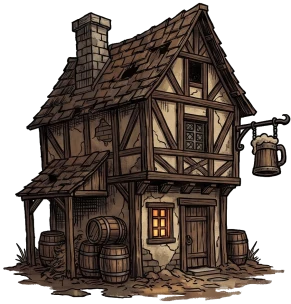
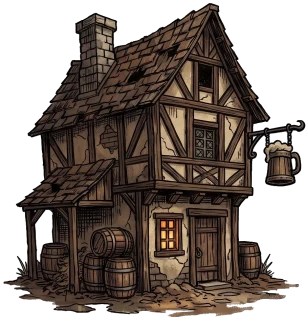
feat(hub): ranuras medidas contra el chrome real y agrandadas para teléfono; reproceso de edificios (T12)

diff --git a/client/src/game/hub/hubLayout.js b/client/src/game/hub/hubLayout.js
@@ -4,11 +4,12 @@
 export const HUB_W = 824;
 export const HUB_H = 1720;
 
-// Banda visible no tapada por el chrome en 412×860 (valores lógicos = css × 2). Se confirman midiendo el DOM.
+// Banda visible no tapada por el chrome en 412×860 (valores lógicos = css × 2), medida en el DOM real (T12): QuestRail
+// termina en 123 px CSS, la botonera empieza en 698, QuickActionsSidebar termina en x 52 y EventSidebar empieza en 356.
 export const SAFE_TOP = 250; // bajo TopResourceBar + QuestRail
 export const SAFE_BOTTOM = 1390; // sobre botonera de BastionHub + BottomNavBar
 export const SAFE_LEFT = 110; // a la derecha de QuickActionsSidebar (left-2, w-11)
-export const SAFE_RIGHT = 714; // a la izquierda de EventSidebar/SocialSidebar
+export const SAFE_RIGHT = 712; // a la izquierda de EventSidebar/SocialSidebar
 
 export const HUB_DEPTHS = {
   sky: 0,
@@ -36,25 +37,26 @@ export const TILE_SIZES = {
   tavern: [2, 2], market: [3, 2], embassy: [3, 3], throne_room: [4, 4], library: [2, 2],
 };
 
-// Ancla = centro-abajo del sprite, en el espacio lógico 824×1720 (design.md §5.1).
+// Ancla = centro-abajo del sprite, en el espacio lógico 824×1720 (design.md §5.1). Ranuras agrandadas en T12 para que
+// el hub se lea en un teléfono (cada caja = alto objetivo × aspecto del webp; --height en art-b/hub/process.sh).
 export const HUB_SLOTS = {
-  library: { x: 175, y: 700, w: 220, h: 240 },
-  throne_room: { x: 412, y: 720, w: 300, h: 460, fire: { dx: 0, dy: -423 } },
-  embassy: { x: 650, y: 700, w: 220, h: 240 },
-  tower: { x: 130, y: 900, w: 140, h: 320 },
-  barracks: { x: 300, y: 905, w: 200, h: 220 },
-  tavern: { x: 500, y: 910, w: 190, h: 210, smoke: { dx: -40, dy: -190 } },
-  market: { x: 690, y: 915, w: 210, h: 200 },
-  mill: { x: 135, y: 1110, w: 190, h: 300 },
-  house: { x: 300, y: 1100, w: 160, h: 180 },
-  barn: { x: 470, y: 1115, w: 200, h: 210 },
-  smithy: { x: 670, y: 1120, w: 210, h: 210, smoke: { dx: 45, dy: -195 } },
-  sawmill: { x: 130, y: 1310, w: 220, h: 210 },
-  farm_plot: { x: 330, y: 1320, w: 220, h: 140 },
-  stable: { x: 520, y: 1310, w: 200, h: 190 },
-  mine: { x: 690, y: 1305, w: 200, h: 220 },
-  wall: { x: 230, y: 1385, w: 280, h: 120 },
-  trap: { x: 560, y: 1385, w: 150, h: 80 },
+  library: { x: 150, y: 730, w: 222, h: 290 },
+  throne_room: { x: 412, y: 730, w: 332, h: 396, fire: { dx: 65, dy: -322 } },
+  embassy: { x: 668, y: 730, w: 232, h: 270 },
+  tower: { x: 165, y: 955, w: 226, h: 190 },
+  barracks: { x: 415, y: 955, w: 304, h: 150 },
+  tavern: { x: 655, y: 955, w: 204, h: 210, smoke: { dx: -37, dy: -195 } },
+  mill: { x: 135, y: 1125, w: 173, h: 240 },
+  house: { x: 290, y: 1125, w: 193, h: 130 },
+  barn: { x: 490, y: 1125, w: 243, h: 140 },
+  smithy: { x: 690, y: 1125, w: 194, h: 200, smoke: { dx: 50, dy: -190 } },
+  market: { x: 140, y: 1280, w: 236, h: 170 },
+  sawmill: { x: 345, y: 1280, w: 199, h: 195 },
+  stable: { x: 525, y: 1280, w: 181, h: 175 },
+  mine: { x: 680, y: 1280, w: 225, h: 165 },
+  farm_plot: { x: 250, y: 1390, w: 205, h: 150 },
+  wall: { x: 470, y: 1390, w: 231, h: 130 },
+  trap: { x: 660, y: 1390, w: 102, h: 100 },
 };
 
 export const WORKER_KINDS = ['farmer', 'woodcutter', 'miner', 'merchant'];
@@ -63,9 +65,9 @@ export const WORKER_KINDS = ['farmer', 'woodcutter', 'miner', 'merchant'];
 export const WORKER_BY_BUILDING = {
   farm_plot: { kind: 'farmer', dx: 80, dy: 0, h: 125, periodMs: 900 },
   mill: { kind: 'farmer', dx: 75, dy: 5, h: 120, periodMs: 1100 },
-  sawmill: { kind: 'woodcutter', dx: 90, dy: 5, h: 130, periodMs: 700 },
-  smithy: { kind: 'miner', dx: -100, dy: 5, h: 130, periodMs: 650 },
-  mine: { kind: 'miner', dx: -95, dy: 5, h: 130, periodMs: 750 },
+  sawmill: { kind: 'woodcutter', dx: 85, dy: 5, h: 130, periodMs: 700 },
+  smithy: { kind: 'miner', dx: -70, dy: 5, h: 130, periodMs: 650 },
+  mine: { kind: 'miner', dx: -60, dy: 10, h: 130, periodMs: 750 },
   tavern: { kind: 'merchant', dx: -85, dy: 8, h: 120, periodMs: 1400 },
   market: { kind: 'merchant', dx: -95, dy: 8, h: 125, periodMs: 1600 },
 };

diff --git a/specs/hub_b_escena/tasks.md b/specs/hub_b_escena/tasks.md
@@ -215,7 +215,7 @@
   `entity:selected` / `entity:deselected`, `DayNightSystem` con overlay oculto, `token:earned` → `emitTokenGain` con
   `fontSize 28`, `resolution = textResolutionFor(zoom)` y depth de partículas, `teardown` que quita solo sus
   handlers. Cubre: R3, R4, R6, R7, R10, R11, R13, R14, R22, R23, R24, R28, R29, R30, R31, R41, R44. Evidencia:
-  `HubSceneB.js` (≈480 líneas) según §6.1-§6.3: `init` lee `renderScale`; `preload` carga `HUB_TEXTURES` con
+  `HubSceneB.js` (536 líneas) según §6.1-§6.3: `init` lee `renderScale`; `preload` carga `HUB_TEXTURES` con
   `loaderror` → `missing` + `console.warn`; `makeTextures` (`hubb_fog/spark/ember/mote/placeholder/sky_fallback`);
   `setFilter(LINEAR)` por textura cargada; capas cielo ×2 (cover × 1.04, deriva × 1.025 por contador común), base y fg
   a 824 de ancho, `grade`/flash a pantalla completa, todo con `HUB_DEPTHS`; `applyViewport` + `scale.on('resize')`;
@@ -236,9 +236,31 @@
   cielo `hubb_sky_fallback`, `missing = [hubb_sky_calm, hubb_bld_barn]`, 2 `console.warn` propios y 0 `pageerror`
   (R30). Sin `pageerror` en ninguna corrida. `cd client && npx vitest run` → `Tests 1 failed | 146 passed (147)`
   (known_failure GameHUD Lv5); `vite build` (a un outDir temporal) → `✓ built in 6.91s`.
-- [ ] T12 — Medir con Playwright los rects reales de `TopResourceBar`, `QuestRail`, botonera, `BottomNavBar` y barras
+- [x] T12 — Medir con Playwright los rects reales de `TopResourceBar`, `QuestRail`, botonera, `BottomNavBar` y barras
   laterales; confirmar o ajustar `SAFE_*` y `HUB_SLOTS` (re-correr T8; si cambia algún `h`, recalcular su `--height`
-  y reprocesar, `design.md` §5.1). Cubre: R9.
+  y reprocesar, `design.md` §5.1). Cubre: R9. Evidencia: Playwright DSF 2 (412×860, cuenta nueva) — unión de los rects
+  de las hojas visibles de cada bloque de chrome, px CSS `[x0, y0, x1, y1]`: `TopResourceBar` `[26,18,391,61]`
+  (contenedor hasta y 66), `QuestRail` hasta **y 123** (con su banda; hojas `[64,88,283,114]`), botonera de
+  `BastionHub` `[12,698,400,748]` (empieza en **y 698**), `BottomNavBar` `[12,788,400,852]`, `QuickActionsSidebar`
+  `[8,80,52,384]` (termina en **x 52**), `EventSidebar` `[356,80,404,328]` (empieza en **x 356**), `SocialSidebar`
+  `[360,564,404,764]`, `StormBanner` ausente sin tormenta. En lógicos (× 2): `SAFE_TOP 250` ≥ 246 ✓, `SAFE_BOTTOM 1390`
+  ≤ 1396 ✓, `SAFE_LEFT 110` ≥ 104 ✓, `SAFE_RIGHT` **714 → 712** (= 356 × 2; ninguna ancla lo pasa). **Ranuras
+  agrandadas** (decisión del leader: el hub tiene que leerse en un teléfono; tower se veía de 119 px lógicos y barracks de
+  99): 5 filas sobre las terrazas de `hub_base` (cima 730, terraza 1 955, terraza 2 1125, terraza 3 1280/1390), cada
+  caja = alto objetivo × aspecto del webp (+2 px) para que el alto mostrado sea `h`; `--height = ceil16(1.5 × h)`
+  recalculado en `art-b/hub/process.sh` y **reprocesado desde los crudos existentes** (sin generación nueva):
+  library (150, 730) 222×290 → `--height 448`; throne_room (412, 730) 332×396 → `--height 608`; embassy (668, 730) 232×270 → `--height 416`; tower (165, 955) 226×190 → `--height 288`; barracks (415, 955) 304×150 → `--height 240`; tavern (655, 955) 204×210 → `--height 320`; mill (135, 1125) 173×240 → `--height 368`; house (290, 1125) 193×130 → `--height 208`; barn (490, 1125) 243×140 → `--height 224`; smithy (690, 1125) 194×200 → `--height 304`; market (140, 1280) 236×170 → `--height 256`; sawmill (345, 1280) 199×195 → `--height 304`; stable (525, 1280) 181×175 → `--height 272`; mine (680, 1280) 225×165 → `--height 256`; farm_plot (250, 1390) 205×150 → `--height 240`; wall (470, 1390) 231×130 → `--height 208`; trap (660, 1390) 102×100 → `--height 160`. Tower 119 → 190 px lógicos (×1.6), barracks 99 → 150 (×1.5); alto del recorte de origen ≥
+  `--height` en los 17 (no ampliación). Fuego Votivo `(65, −322)`, humo tavern `(−37, −195)` y smithy `(50, −190)`
+  medidos sobre la captura (brasero y chimeneas reales); trabajadores `sawmill dx 85`, `smithy dx −70`, `mine dx −60
+  dy 10` para no pisar el granero/establo. `NODE=… bash art-b/hub/process.sh 2` → 25 `✓` (17 edificios cambiados, 8
+  trabajadores byte-idénticos). `npx vitest run src/tests/hubLayout.test.js` → `Tests 82 passed (82)` (invariantes
+  R9 con los valores nuevos; anclas a ≥ 111.8 entre sí). Relación fuente/pantalla medida en escena con los 17 ids y 7
+  trabajadores (`frame.realHeight / (displayHeight × zoom)`, 28 objetos de arte): DSF 3 mínimo **1.004** (market) ≥
+  0.97, máximo 1.15 (merchant); DSF 2 máximo **1.723** (merchant/farmer h 120) ≤ 2.25, mínimo 1.506. Presupuesto R34
+  tras el reproceso: `files 29 maxW 1536 maxKB 780.1 total 2.94MB` (edificios 10.9-78.5 KB). Hojas
+  `evidencia/contact_hub_edificios.webp` (3349×572, 17) y `evidencia/contact_hub_vs_spike.webp` (2023×413, 7)
+  regeneradas con los webp nuevos: mismos recortes, limpios, uno por archivo, sin texto. `cd client && npx vitest
+  run` → `Tests 1 failed | 146 passed (147)` (known_failure GameHUD Lv5).
 - [ ] T13 — Trabajadores y humo (`design.md` §5.2, §6.2): alternancia de poses con normalización por alto,
   respiración, desfase aleatorio; humo de `smithy` y `tavern`; Fuego Votivo en `throne_room`. Cubre: R16, R17.
 - [ ] T14 — Ambiente de tormenta (`design.md` §5.3, §6.5): cielos con cross-fade, tinte, `grade`, niebla, emisores
